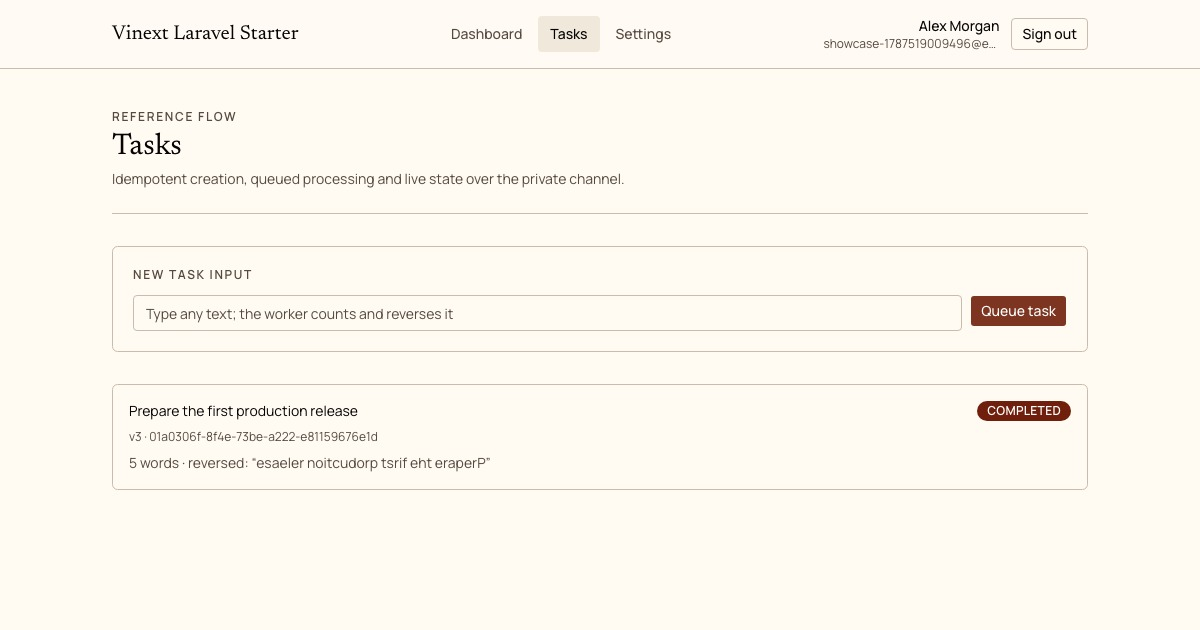
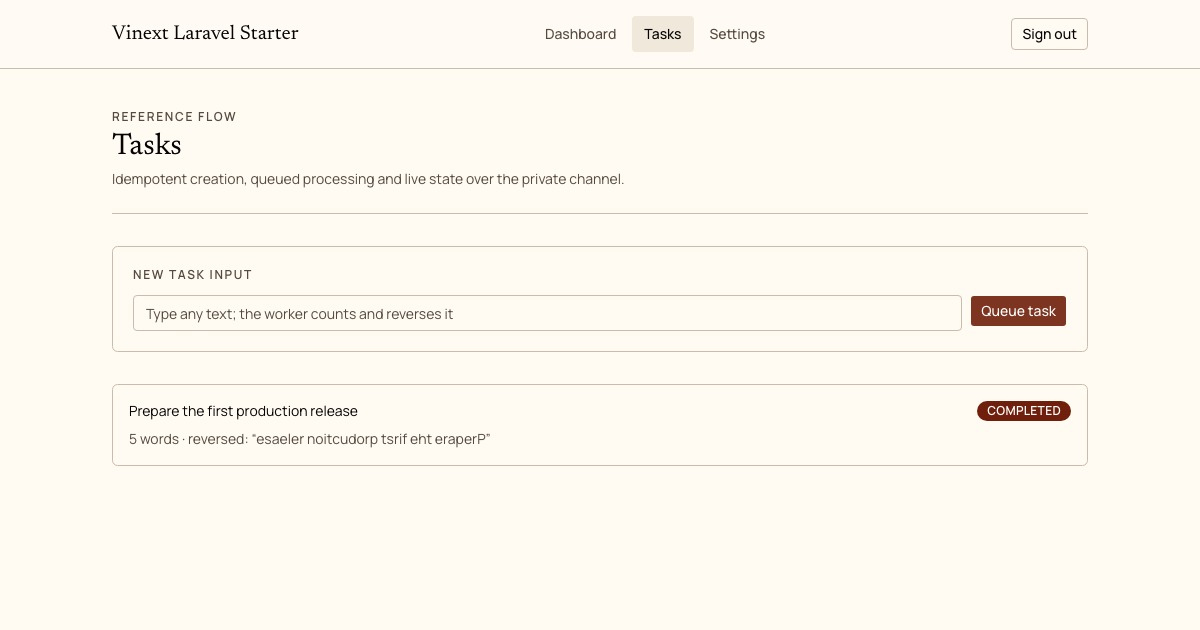
Keep consumer showcase ownership explicit

Changed region(s): [[0.0925, 0.6635, 0.4008, 0.754], [0.37, 0.0, 0.6475, 0.0905], [0.6783, 0.0302, 0.8325, 0.0905]]

diff --git a/apps/web/app/page.tsx b/apps/web/app/page.tsx
@@ -6,10 +6,8 @@ import Link from "next/link";
 import type { ReactNode } from "react";
 
 import { buttonVariants } from "@/components/ui/button";
-import { createHomeMetadata } from "@/lib/site-config";
+import { createHomeMetadata, getSiteConfig } from "@/lib/site-config";
 import { cn } from "@/lib/utils";
-
-const repositoryUrl = "https://github.com/frndchagas/vinext-laravel-starter";
 
 const decisions = [
   {
@@ -94,6 +92,8 @@ export const revalidate = 300;
 export const metadata: Metadata = createHomeMetadata();
 
 export default function Home() {
+  const repositoryUrl = getSiteConfig().repositoryUrl;
+
   return (
     <>
       <a
@@ -165,18 +165,31 @@ export default function Home() {
               </p>
 
               <div className="mt-8 flex flex-col gap-3 sm:flex-row">
-                <a
-                  className={buttonVariants({
-                    className: "h-12 rounded-none bg-primary px-6 text-primary-foreground",
-                    size: "lg",
-                  })}
-                  href={repositoryUrl}
-                  rel="noreferrer"
-                  target="_blank"
-                >
-                  View on GitHub
-                  <span aria-hidden="true">↗</span>
-                </a>
+                {repositoryUrl ? (
+                  <a
+                    className={buttonVariants({
+                      className: "h-12 rounded-none bg-primary px-6 text-primary-foreground",
+                      size: "lg",
+                    })}
+                    href={repositoryUrl.href}
+                    rel="noreferrer"
+                    target="_blank"
+                  >
+                    View on GitHub
+                    <span aria-hidden="true">↗</span>
+                  </a>
+                ) : (
+                  <a
+                    className={buttonVariants({
+                      className: "h-12 rounded-none bg-primary px-6 text-primary-foreground",
+                      size: "lg",
+                    })}
+                    href="#install"
+                  >
+                    View installation
+                    <span aria-hidden="true">→</span>
+                  </a>
+                )}
                 <Link
                   className={buttonVariants({
                     className: "h-12 rounded-none border-foreground/60 px-6",
@@ -337,14 +350,20 @@ export default function Home() {
           id="license"
         >
           <p>Independent community project. MIT licensed.</p>
-          <a
-            className="font-medium text-foreground hover:text-primary"
-            href={repositoryUrl}
-            rel="noreferrer"
-            target="_blank"
-          >
-            View the repository <span aria-hidden="true">↗</span>
-          </a>
+          {repositoryUrl ? (
+            <a
+              className="font-medium text-foreground hover:text-primary"
+              href={repositoryUrl.href}
+              rel="noreferrer"
+              target="_blank"
+            >
+              View the repository <span aria-hidden="true">↗</span>
+            </a>
+          ) : (
+            <a className="font-medium text-foreground hover:text-primary" href="#install">
+              Installation <span aria-hidden="true">↑</span>
+            </a>
+          )}
         </footer>
       </main>
     </>

diff --git a/apps/web/lib/site-config.ts b/apps/web/lib/site-config.ts
@@ -4,8 +4,6 @@ const defaultName = "Vinext Laravel Starter";
 const defaultDescription =
   "A Laravel and Vinext foundation for coding agents, with typed contracts, queues and realtime.";
 const defaultUrl = "http://localhost:13000";
-const socialImagePath = "/opengraph-image.jpg";
-const socialImageAlt = "Vinext Laravel Starter Tasks screen";
 
 type SiteEnvironment = Record<string, string | undefined>;
 
@@ -13,7 +11,8 @@ export type SiteConfig = {
   description: string;
   indexable: boolean;
   name: string;
-  socialImage: URL;
+  repositoryUrl: URL | null;
+  socialImage: URL | null;
   url: URL;
 };
 
@@ -38,6 +37,17 @@ function applicationUrl(value: string | undefined) {
   return url;
 }
 
+function optionalUrl(value: string | undefined, base?: URL) {
+  if (!value?.trim()) return null;
+
+  const url = new URL(value.trim(), base);
+  if (!["http:", "https:"].includes(url.protocol) || url.username || url.password) {
+    throw new Error("Optional public URLs must use HTTP(S) without credentials.");
+  }
+
+  return url;
+}
+
 export function getSiteConfig(environment: SiteEnvironment = process.env): SiteConfig {
   const url = applicationUrl(environment.APP_URL);
 
@@ -45,30 +55,33 @@ export function getSiteConfig(environment: SiteEnvironment = process.env): SiteC
     description: text(environment.APP_DESCRIPTION, defaultDescription),
     indexable: environment.APP_INDEXABLE?.trim().toLowerCase() === "true",
     name: text(environment.APP_NAME, defaultName),
-    socialImage: new URL(socialImagePath, url),
+    repositoryUrl: optionalUrl(environment.APP_REPOSITORY_URL),
+    socialImage: optionalUrl(environment.APP_SOCIAL_IMAGE, url),
     url,
   };
 }
 
 function socialMetadata(site: SiteConfig) {
-  const image = {
-    alt: socialImageAlt,
-    height: 630,
-    url: site.socialImage,
-    width: 1200,
-  };
+  const image = site.socialImage
+    ? {
+        alt: `${site.name} application preview`,
+        height: 630,
+        url: site.socialImage,
+        width: 1200,
+      }
+    : undefined;
 
   return {
     openGraph: {
       description: site.description,
-      images: [image],
+      ...(image ? { images: [image] } : {}),
       title: site.name,
       type: "website" as const,
     },
     twitter: {
-      card: "summary_large_image" as const,
+      card: image ? ("summary_large_image" as const) : ("summary" as const),
       description: site.description,
-      images: [image],
+      ...(image ? { images: [image] } : {}),
       title: site.name,
     },
   };

diff --git a/apps/web/lib/site-config.test.ts b/apps/web/lib/site-config.test.ts
@@ -9,8 +9,10 @@ describe("site configuration", () => {
 
     expect(site.url.href).toBe("http://localhost:13000/");
     expect(site.indexable).toBe(false);
-    expect(site.socialImage.href).toBe("http://localhost:13000/opengraph-image.jpg");
+    expect(site.repositoryUrl).toBeNull();
+    expect(site.socialImage).toBeNull();
     expect(root.robots).toEqual({ follow: false, index: false });
+    expect(root.twitter).toMatchObject({ card: "summary" });
     expect(createRobots({}).rules).toEqual({ disallow: "/", userAgent: "*" });
   });
 
@@ -19,6 +21,8 @@ describe("site configuration", () => {
       APP_DESCRIPTION: "A configured application.",
       APP_INDEXABLE: "true",
       APP_NAME: "Example product",
+      APP_REPOSITORY_URL: "https://github.com/example/product",
+      APP_SOCIAL_IMAGE: "/opengraph-image.jpg",
       APP_URL: "https://example.com",
     };
     const metadata = createHomeMetadata(environment);
@@ -41,6 +45,10 @@ describe("site configuration", () => {
       },
     });
     expect(createRobots(environment).rules).toEqual({ allow: "/", userAgent: "*" });
+    expect(getSiteConfig(environment)).toMatchObject({
+      repositoryUrl: new URL("https://github.com/example/product"),
+      socialImage: new URL("https://example.com/opengraph-image.jpg"),
+    });
   });
 
   it("rejects an APP_URL that cannot be a canonical origin", () => {

diff --git a/apps/web/app/page.test.tsx b/apps/web/app/page.test.tsx
@@ -1,10 +1,16 @@
-import { render, screen } from "@testing-library/react";
-import { describe, expect, it } from "vitest";
+import { cleanup, render, screen } from "@testing-library/react";
+import { afterEach, describe, expect, it, vi } from "vitest";
 
 import Home from "./page";
 
 describe("starter home", () => {
+  afterEach(() => {
+    cleanup();
+    vi.unstubAllEnvs();
+  });
+
   it("presents the architecture and the baseline decisions", () => {
+    vi.stubEnv("APP_REPOSITORY_URL", "https://github.com/frndchagas/vinext-laravel-starter");
     render(<Home />);
 
     expect(
@@ -34,5 +40,16 @@ describe("starter home", () => {
       ),
     ).toBeInTheDocument();
     expect(screen.getByText("Owned snapshot, no updater")).toBeInTheDocument();
+  });
+
+  it("keeps a generated application independent from the starter repository", () => {
+    vi.stubEnv("APP_REPOSITORY_URL", "");
+    render(<Home />);
+
+    expect(screen.queryByRole("link", { name: "View on GitHub" })).not.toBeInTheDocument();
+    expect(screen.getByRole("link", { name: "View installation" })).toHaveAttribute(
+      "href",
+      "#install",
+    );
   });
 });

diff --git a/docs/customizing.md b/docs/customizing.md
@@ -29,7 +29,7 @@ bun run contracts:build
 
 Copy the root `.env.example` and change ports there. The development command propagates those values to Docker, host processes and Caddy upstreams. Laravel application settings live in `apps/api/.env`; never commit either file.
 
-`APP_NAME`, `APP_DESCRIPTION` and `APP_URL` drive page titles, canonical URLs and social cards. New deployments default to `APP_INDEXABLE=false`; enable it only when the public root page is ready for search engines. Authenticated routes remain `noindex`.
+`APP_NAME`, `APP_DESCRIPTION` and `APP_URL` drive page titles, canonical URLs and social cards. Set `APP_REPOSITORY_URL` only when the product has its own public repository. Add a 1200 × 630 product image and point `APP_SOCIAL_IMAGE` to it; generated applications leave both values empty instead of advertising the starter. New deployments default to `APP_INDEXABLE=false`; enable it only when the public root page is ready for search engines. Authenticated routes remain `noindex`.
 
 Production secrets do not belong in either example file. Generate unique Laravel and Reverb keys in the deployment environment.
 

diff --git a/docs/deployment.md b/docs/deployment.md
@@ -12,7 +12,7 @@ cp .env.production.example .env.production
 
 Set unique values for `APP_KEY`, `POSTGRES_PASSWORD`, `REVERB_APP_KEY` and `REVERB_APP_SECRET`. `APP_URL` includes the public scheme and host. `APP_HOST` contains only the host, plus a port when the public URL uses one.
 
-Set `APP_DESCRIPTION` for metadata and keep `APP_INDEXABLE=false` on previews or private products. Only the public root page becomes indexable when the flag is true; authenticated routes stay out of search results. The generated canonical and social image URLs use `APP_URL`.
+Set `APP_DESCRIPTION` for metadata and keep `APP_INDEXABLE=false` on previews or private products. Only the public root page becomes indexable when the flag is true; authenticated routes stay out of search results. `APP_REPOSITORY_URL` and `APP_SOCIAL_IMAGE` are optional and empty in generated applications. Relative social-image paths become absolute through `APP_URL`.
 
 `LEGACY_APP_HOST` is optional. Set it to one previous hostname to return a permanent redirect to `APP_URL`; the proxy preserves the path and query. Leave it unset when no redirect is needed.
 
